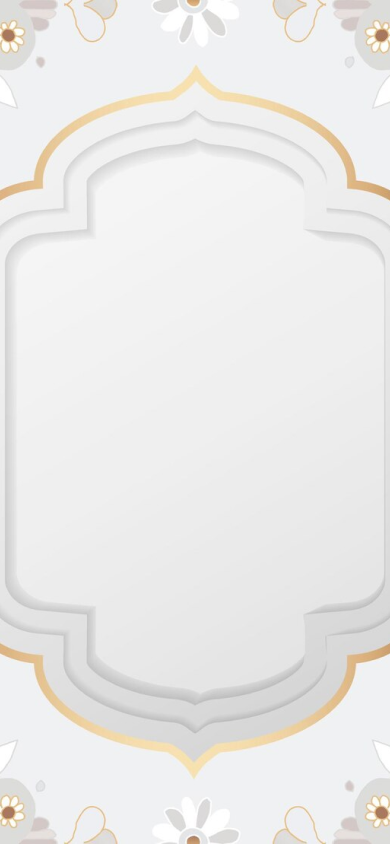
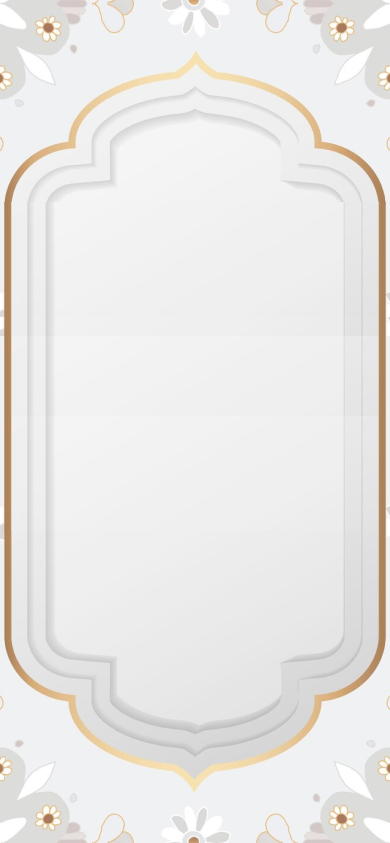
up

diff --git a/src/App.jsx b/src/App.jsx
@@ -4,18 +4,22 @@ const App = () => {
   return (
     <>
       <div
-        style={{ backgroundImage: "url('backgroundd.jpg')" }}
-        className="bg-cover bg-no-repeat max-w-full flex flex-col gap-3 items-center justify-center min-h-screen"
+        style={{ backgroundImage: "url('background.png')" }}
+        className="bg-cover bg-no-repeat"
       >
-        <p className="text-4xl ">
-          Undangan <br />
-          Syukuran Khitan
-        </p>
-        <div className="px-20 w-full">
-          <img src="hero.png" className="w-full" />
+        <div className="flex flex-col items-center justify-center min-h-screen">
+          <p className="text-3xl mt-36 text-center">
+            Undangan <br />
+            Syukuran Khitan
+          </p>
+          <div className="px-20 my-6 w-full">
+            <img src="hero.png" className="w-full" />
+          </div>
+          <p className="text-xl text-center">Muhammad Raihan Alfarizky</p>
         </div>
-        <p className="text-4xl ">Muhammad Raihan Alfarizky</p>
       </div>
+
+
 
       <div className="container mx-auto px-4">
         <div className="text-center">
@@ -152,9 +156,9 @@ const App = () => {
           <h2 className="text-3xl font-bold">Doa dan Ucapan</h2>
         </div>
         <div className="border-2 shadow p-6 flex flex-col items-center">
-          <p className="font-medium">Adrian - Bogor</p>
+          <p className="font-medium">adri - bogor</p>
           <div className="border w-11/12"></div>
-          <p>Selamat!!</p>
+          <p>selamat</p>
           <p className="text-center">Rabu, 14 Agustus 2024 20:00 WIB</p>
         </div>
       </div>
